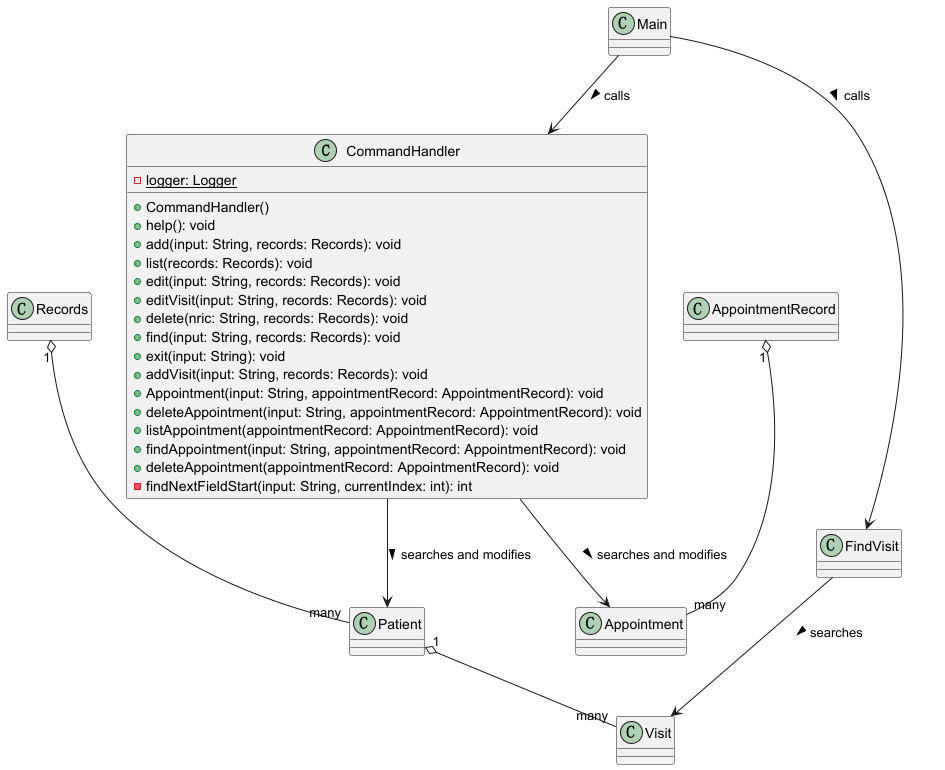
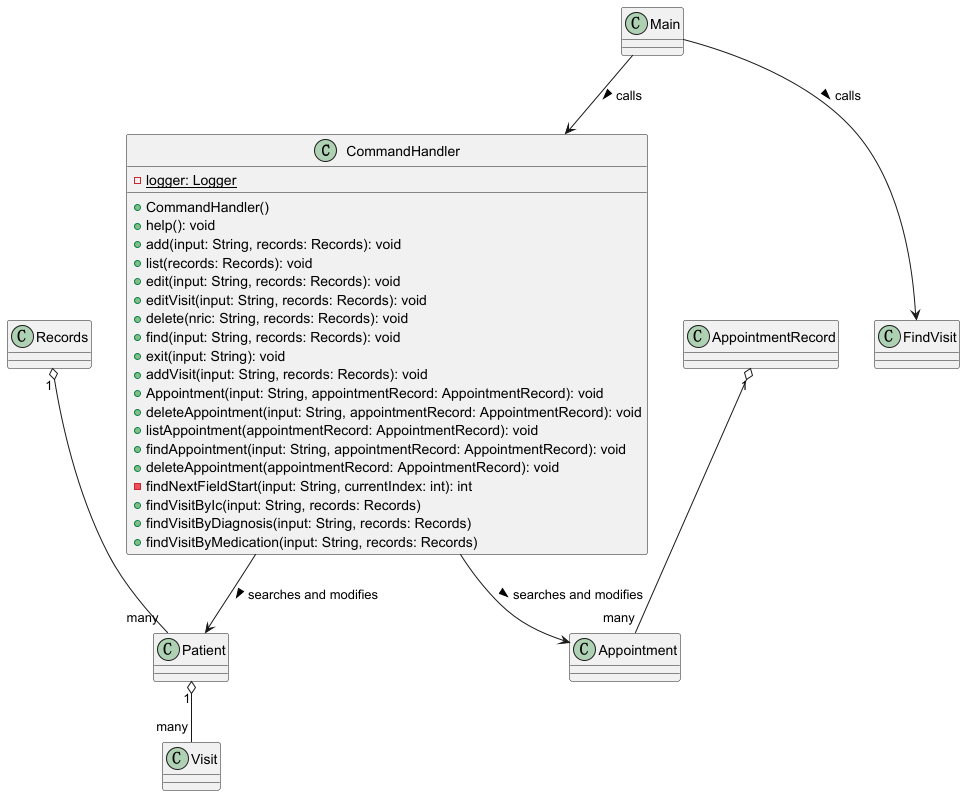
before_pull

diff --git a/src/main/java/bookbob/functions/CommandHandler.java b/src/main/java/bookbob/functions/CommandHandler.java
@@ -907,4 +907,68 @@ public class CommandHandler {
             }
         }
     }
+
+    //find visit by nric and print all visits to terminal
+    //@@author PrinceCatt
+    public void findVisitByIc(String nric, Records records) {
+        ArrayList<Patient> patientList = records.getPatients();
+        boolean isFound = false;
+        for (Patient patient : patientList) {
+            if (patient.getNric().equals(nric)) {
+                ArrayList<Visit> visits = patient.getVisits();
+                isFound = true;
+
+                for (Visit visit : visits) {
+                    System.out.println(visit.toString());
+                }
+            }
+        }
+        if (!isFound) {
+            System.out.println("No patient visit record found with NRIC: " + nric);
+        }
+    }
+
+    //find patient by diagnosis and print the specific patient and visit to terminal
+    //@@author PrinceCatt
+    public void findVisitByDiagnosis(String symptom, Records records) {
+        ArrayList<Patient> patientList = records.getPatients();
+        boolean found = false;
+        for (Patient patient : patientList) {
+            ArrayList<Visit> visits = patient.getVisits();
+            for (Visit visit : visits) {
+                if (visit.getDiagnoses().contains(symptom) || patient.getMedicalHistories().contains(symptom)) {
+                    System.out.println("---------------------------------");
+                    System.out.println(patient.toString());
+                    System.out.println(visit.toString());
+                    System.out.println("---------------------------------");
+                    found = true;
+                }
+            }
+        }
+        if (!found) {
+            System.out.println("No patient found with symptom: " + symptom);
+        }
+    }
+
+    //find visit by medication and print all visits to terminal
+    //@@author PrinceCatt
+    public void findVisitByMedication(String medication, Records records) {
+        ArrayList<Patient> patientList = records.getPatients();
+        boolean isFound = false;
+        for (Patient patient : patientList) {
+            ArrayList<Visit> visits = patient.getVisits();
+            for (Visit visit : visits) {
+                if (visit.getMedications().contains(medication)) {
+                    System.out.println("---------------------------------");
+                    System.out.println(patient.toString());
+                    System.out.println(visit.toString());
+                    System.out.println("---------------------------------");
+                    isFound = true;
+                }
+            }
+        }
+        if (!isFound) {
+            System.out.println("No patient found with symptom: " + medication);
+        }
+    }
 }

diff --git a/src/main/java/bookbob/Main.java b/src/main/java/bookbob/Main.java
@@ -4,7 +4,6 @@ import bookbob.entity.Records;
 import bookbob.entity.AppointmentRecord;
 import bookbob.functions.CommandHandler;
 import bookbob.functions.FileHandler;
-import bookbob.functions.FindVisit;
 
 import java.io.IOException;
 import java.time.DateTimeException;
@@ -255,7 +254,7 @@ public class Main {
             case "findVisit":
                 logger.log(Level.INFO, "Processing find visit command");
                 try {
-                    FindVisit.findVisitByIc(inputArr[1], records);
+                    commandHandler.findVisitByIc(inputArr[1], records);
                     logger.log(Level.INFO, "Successfully processed find visit command");
                 } catch (Exception e) {
                     logger.log(Level.WARNING, "Error processing find visit command", e);
@@ -265,7 +264,7 @@ public class Main {
             case "findMedication":
                 logger.log(Level.INFO, "Processing find medication command");
                 try {
-                    FindVisit.findVisitByMedication(inputArr[1], records);
+                    commandHandler.findVisitByMedication(inputArr[1], records);
                     logger.log(Level.INFO, "Successfully processed find medication command");
                 } catch (Exception e) {
                     logger.log(Level.WARNING, "Error processing find medication command", e);
@@ -276,7 +275,7 @@ public class Main {
             case "findDiagnosis":
                 logger.log(Level.INFO, "Processing find diagnosis command");
                 try {
-                    FindVisit.findVisitByDiagnosis(inputArr[1], records);
+                    commandHandler.findVisitByDiagnosis(inputArr[1], records);
                     logger.log(Level.INFO, "Successfully processed find diagnosis command");
                 } catch (Exception e) {
                     logger.log(Level.WARNING, "Error processing find diagnosis command", e);

diff --git a/docs/DeveloperGuide.md b/docs/DeveloperGuide.md
@@ -49,8 +49,6 @@ The bulk of the BookBob's work is done by the following components:
   ![img.png](CommandHandler.png)
 - `FileHandler`: Reads data from, and writes data to, the hard disk.
   ![img.png](FileHandler.png)
-- `FindVisit`: The command executor handling visits related work.
-  ![img.png](FindVisit.png)
 
 The entities storing data are the following components:
 - `Records`: The list of patients.
